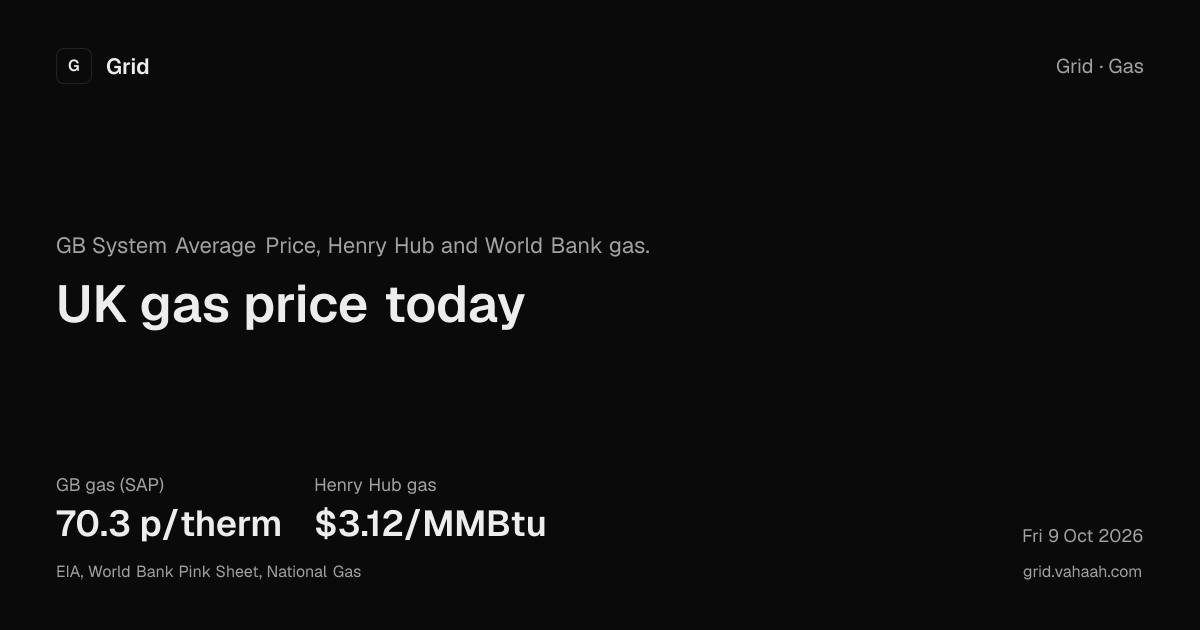
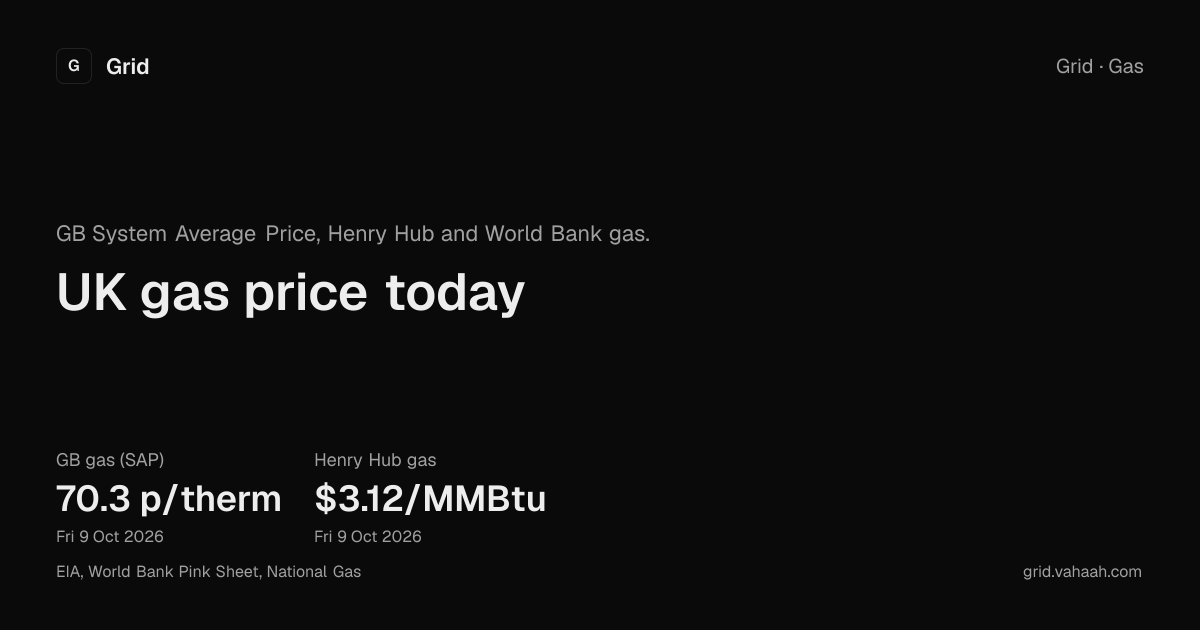
Address the OG review: attribution, hourly cache, exports, and gas dates.
Attribute overview, generation, and Today with the full grid sources. Cache Today and Gas for an hour. Drop net-export groups before share totals, and put each gas benchmark's own date on its metric.

Changed region(s): [[0.0308, 0.3619, 0.555, 0.5429], [0.0308, 0.7238, 0.4625, 0.8746], [0.8633, 0.8444, 0.9558, 0.8746]]

diff --git a/src/lib/og/model.test.ts b/src/lib/og/model.test.ts
@@ -1,4 +1,6 @@
 import { describe, expect, it } from "vitest";
+import { GB_GAS_SAP_COMMODITY } from "@/lib/gb-gas-sap";
+import { OG_CACHE_CONTROL, OG_HOURLY_CACHE_CONTROL } from "@/lib/site";
 import {
   OG_CARBON_SOURCE,
   OG_COMMODITY_SOURCE,
@@ -12,6 +14,7 @@ import {
   formatOgDayStamp,
   gridEyebrow,
   normalizeOgShares,
+  ogCacheControl,
   ogFuelKey,
   ogSampleFilename,
   parseOgVariant,
@@ -66,6 +69,7 @@ describe("og model", () => {
     );
 
     const overview = buildOgCard({ kind: "focus", focus: "overview" }, live);
+    expect(overview.source).toBe(OG_GRID_SOURCES);
     expect(overview.title).toContain("Wind is the largest source");
     expect(overview.title).not.toContain("Biomass is the largest source");
     expect(overview.title).toContain("importing 6.1 GW");
@@ -79,6 +83,7 @@ describe("og model", () => {
     );
 
     const generation = buildOgCard({ kind: "focus", focus: "generation" }, live);
+    expect(generation.source).toBe(OG_GRID_SOURCES);
     expect(generation.title).toContain("Wind is the largest source");
     expect(generation.mix[0]?.fuel).toBe("wind");
 
@@ -144,6 +149,8 @@ describe("og model", () => {
     const today = buildOgCard({ kind: "page", page: "today" }, snapshot);
     const methodology = buildOgCard({ kind: "page", page: "methodology" }, snapshot);
     const sources = buildOgCard({ kind: "page", page: "data-sources" }, snapshot);
+    expect(today.source).toBe(OG_GRID_SOURCES);
+    expect(today.source).toContain("Carbon Intensity");
     expect(today.source).toContain("Sheffield Solar PV Live");
     expect(methodology.source).toContain("Sheffield Solar PV Live");
     expect(sources.source).toContain("Sheffield Solar PV Live");
@@ -162,7 +169,65 @@ describe("og model", () => {
     expect(gas.metrics.some((metric) => metric.value.includes("p/therm"))).toBe(true);
     expect(gas.metrics.some((metric) => metric.value.endsWith("/MMBtu"))).toBe(true);
     expect(gas.source).toBe(OG_COMMODITY_SOURCE);
-    expect(gas.stamp).toBe("Fri 9 Oct 2026");
+    expect(gas.stamp).toBeNull();
+    expect(gas.metrics.find((metric) => metric.label.includes("SAP"))?.hint).toBe("Fri 9 Oct 2026");
+    expect(gas.metrics.find((metric) => metric.label.includes("Henry"))?.hint).toBe("Fri 9 Oct 2026");
+  });
+
+  it("keeps a separate date on each gas benchmark", () => {
+    const gas = buildOgCard(
+      { kind: "page", page: "gas" },
+      {
+        ...snapshot,
+        prices: [
+          {
+            date: "2026-10-10",
+            commodity: GB_GAS_SAP_COMMODITY,
+            price: 2.4,
+            currency: "GBP",
+            unit: "p/kWh",
+          },
+          {
+            date: "2026-10-08",
+            commodity: "henry_hub_gas",
+            price: 3.12,
+            currency: "USD",
+            unit: "$/MMBTU",
+          },
+        ],
+      }
+    );
+    expect(gas.stamp).toBeNull();
+    expect(gas.metrics.find((metric) => metric.label.includes("SAP"))?.hint).toBe("Sat 10 Oct 2026");
+    expect(gas.metrics.find((metric) => metric.label.includes("Henry"))?.hint).toBe("Thu 8 Oct 2026");
+  });
+
+  it("drops net exports before share percentages and keeps a net import", () => {
+    const exporting = normalizeOgShares([
+      { fuel: "wind", mw: 10_000, sharePct: 50 },
+      { fuel: "gas", mw: 5_000, sharePct: 25 },
+      { fuel: "INTFR", mw: -2_000, sharePct: -10 },
+    ]);
+    expect(exporting.find((share) => share.fuel === "imports")).toBeUndefined();
+    expect(exporting.reduce((sum, share) => sum + share.sharePct, 0)).toBeCloseTo(100, 5);
+    expect(exporting.find((share) => share.fuel === "wind")?.sharePct).toBeCloseTo((10_000 / 15_000) * 100, 5);
+
+    const importing = normalizeOgShares([
+      { fuel: "wind", mw: 10_000, sharePct: 40 },
+      { fuel: "INTFR", mw: 4_000, sharePct: 16 },
+      { fuel: "INTNED", mw: -1_000, sharePct: -4 },
+    ]);
+    expect(importing.find((share) => share.fuel === "imports")?.mw).toBe(3_000);
+    expect(importing.reduce((sum, share) => sum + share.sharePct, 0)).toBeCloseTo(100, 5);
+  });
+
+  it("caches today and gas for an hour and other images for a day", () => {
+    expect(ogCacheControl({ kind: "page", page: "today" })).toBe(OG_HOURLY_CACHE_CONTROL);
+    expect(ogCacheControl({ kind: "page", page: "gas" })).toBe(OG_HOURLY_CACHE_CONTROL);
+    expect(ogCacheControl({ kind: "page", page: "privacy" })).toBe(OG_CACHE_CONTROL);
+    expect(ogCacheControl({ kind: "focus", focus: "overview" })).toBe(OG_CACHE_CONTROL);
+    expect(OG_HOURLY_CACHE_CONTROL).toContain("s-maxage=3600");
+    expect(OG_CACHE_CONTROL).toContain("s-maxage=86400");
   });
 
   it("keeps a consistent Grid eyebrow separator and site footer", () => {

diff --git a/src/lib/og/model.ts b/src/lib/og/model.ts
@@ -13,7 +13,7 @@ import { GB_GAS_SAP_COMMODITY, formatSapPencePerTherm } from "@/lib/gb-gas-sap";
 import { formatLondonCiteDate, parseUtcDateTime } from "@/lib/london-time";
 import { FOCUS_PAGE_COPY, isDashboardFocus } from "@/lib/page-metadata";
 import type { OgCacheSnapshot } from "@/lib/og/peek";
-import { SITE_ORIGIN } from "@/lib/site";
+import { OG_CACHE_CONTROL, OG_HOURLY_CACHE_CONTROL, SITE_ORIGIN } from "@/lib/site";
 
 export const OG_PAGE_IDS = [
   "records",
@@ -63,7 +63,7 @@ export const OG_EYEBROW_SEPARATOR = " · ";
 export const OG_FOOTER = new URL(SITE_ORIGIN).host;
 export const OG_GRID_SOURCES = "Elexon, NESO, Carbon Intensity, Sheffield Solar PV Live";
 export const OG_CONTEXT_SOURCES = "EIA, World Bank, National Gas";
-export const OG_TODAY_SOURCES = "Elexon, NESO, Sheffield Solar PV Live";
+export const OG_TODAY_SOURCES = OG_GRID_SOURCES;
 export const OG_PRICE_SOURCE = "Elexon BMRS";
 export const OG_CARBON_SOURCE = "NESO Carbon Intensity API";
 export const OG_COMMODITY_SOURCE = "EIA, World Bank Pink Sheet, National Gas";
@@ -281,7 +281,7 @@ function overviewCard(facts: LatestFacts | null, focus: "overview" | "generation
     ],
     mix: mixSlices(shares),
     stamp: facts.stamp,
-    source: null,
+    source: OG_GRID_SOURCES,
     cached: true,
   };
 }
@@ -479,14 +479,16 @@ function gasCard(snapshot: OgCacheSnapshot): OgCard {
       {
         label: COMMODITY_CARD_LABELS.gb_gas_sap ?? "GB gas",
         value: sap ? formatCommodityOgValue(sap) : "—",
+        hint: formatOgDayStamp(sap?.date) ?? undefined,
       },
       {
         label: COMMODITY_CARD_LABELS.henry_hub_gas ?? "Henry Hub",
         value: hub ? formatCommodityOgValue(hub) : "—",
+        hint: formatOgDayStamp(hub?.date) ?? undefined,
       },
     ],
     mix: [],
-    stamp: formatOgDayStamp(sap?.date ?? hub?.date ?? null),
+    stamp: null,
     source: OG_COMMODITY_SOURCE,
     cached: true,
   };
@@ -534,24 +536,50 @@ export function normalizeOgShares(shares: SupplyShare[]): SupplyShare[] {
     });
   }
 
-  const totalMw = [...grouped.values()].reduce((sum, row) => sum + row.mw, 0);
-  const totalPct = [...grouped.values()].reduce((sum, row) => sum + row.sharePct, 0);
-  const combined: SupplyShare[] = [];
-
-  for (const [fuel, row] of grouped) {
-    if (row.mw < 0 || (row.mw === 0 && row.sharePct <= 0)) {
-      continue;
-    }
-    combined.push({
-      fuel,
-      mw: row.mw,
-      sharePct:
-        totalMw > 0 ? (row.mw / totalMw) * 100 : totalPct > 0 ? (row.sharePct / totalPct) * 100 : 0,
-    });
-  }
+  const positive = [...grouped.entries()].filter(([, row]) => row.mw > 0 || (row.mw === 0 && row.sharePct > 0));
+  const totalMw = positive.reduce((sum, [, row]) => sum + row.mw, 0);
+  const totalPct = positive.reduce((sum, [, row]) => sum + row.sharePct, 0);
+  const combined: SupplyShare[] = positive.map(([fuel, row]) => ({
+    fuel,
+    mw: row.mw,
+    sharePct: totalMw > 0 ? (row.mw / totalMw) * 100 : totalPct > 0 ? (row.sharePct / totalPct) * 100 : 0,
+  }));
 
   combined.sort((left, right) => right.mw - left.mw || right.sharePct - left.sharePct);
   return combined;
+}
+
+export function ogCacheControl(variant: OgVariant): string {
+  switch (variant.kind) {
+    case "page":
+      return pageCacheControl(variant.page);
+    case "focus":
+      return OG_CACHE_CONTROL;
+    default: {
+      const exhaustive: never = variant;
+      return exhaustive;
+    }
+  }
+}
+
+function pageCacheControl(page: OgPageId): string {
+  switch (page) {
+    case "today":
+    case "gas":
+      return OG_HOURLY_CACHE_CONTROL;
+    case "records":
+    case "privacy":
+    case "terms":
+    case "data-sources":
+    case "price-cap":
+    case "methodology":
+    case "api":
+      return OG_CACHE_CONTROL;
+    default: {
+      const exhaustive: never = page;
+      return exhaustive;
+    }
+  }
 }
 
 function mixSlices(shares: SupplyShare[]): OgMixSlice[] {

diff --git a/src/lib/og/response.tsx b/src/lib/og/response.tsx
@@ -1,9 +1,9 @@
 import { ImageResponse } from "next/og";
 import { OgImage } from "@/lib/og/image";
 import { loadOgFonts } from "@/lib/og/fonts";
-import { buildOgCard, type OgVariant } from "@/lib/og/model";
+import { buildOgCard, ogCacheControl, type OgVariant } from "@/lib/og/model";
 import { peekOgCacheSnapshot, type OgCacheSnapshot } from "@/lib/og/peek";
-import { OG_CACHE_CONTROL, OG_IMAGE_HEIGHT, OG_IMAGE_WIDTH } from "@/lib/site";
+import { OG_IMAGE_HEIGHT, OG_IMAGE_WIDTH } from "@/lib/site";
 
 export async function renderOgImageResponse(
   variant: OgVariant,
@@ -11,15 +11,16 @@ export async function renderOgImageResponse(
 ): Promise<ImageResponse> {
   const card = buildOgCard(variant, snapshot ?? (await peekOgCacheSnapshot()));
   const fonts = await loadOgFonts();
+  const cacheControl = ogCacheControl(variant);
 
   return new ImageResponse(<OgImage card={card} />, {
     width: OG_IMAGE_WIDTH,
     height: OG_IMAGE_HEIGHT,
     fonts,
     headers: {
-      "Cache-Control": OG_CACHE_CONTROL,
-      "CDN-Cache-Control": OG_CACHE_CONTROL,
-      "Vercel-CDN-Cache-Control": OG_CACHE_CONTROL,
+      "Cache-Control": cacheControl,
+      "CDN-Cache-Control": cacheControl,
+      "Vercel-CDN-Cache-Control": cacheControl,
     },
   });
 }

diff --git a/src/lib/og/peek.test.ts b/src/lib/og/peek.test.ts
@@ -22,6 +22,7 @@ describe("og cache peek", () => {
     expect(peek).not.toContain("loadDashboardPayloadUncached");
     expect(peek).not.toContain("fetchPipeRows");
     expect(response).toContain("peekOgCacheSnapshot");
+    expect(response).toContain("ogCacheControl(variant)");
     expect(response).not.toContain("queryPipe");
     expect(route).toContain("renderOgImageResponse");
     expect(route).not.toContain("queryPipe");

diff --git a/src/lib/site.ts b/src/lib/site.ts
@@ -48,6 +48,7 @@ export const SITE_DESCRIPTION = HOME_DESCRIPTION;
 export const OG_IMAGE_WIDTH = 1200;
 export const OG_IMAGE_HEIGHT = 630;
 export const OG_CACHE_CONTROL = "public, s-maxage=86400, stale-while-revalidate=604800";
+export const OG_HOURLY_CACHE_CONTROL = "public, s-maxage=3600, stale-while-revalidate=86400";
 export const OG_REVALIDATE_SECONDS = 86_400;
 
 export const SITE_OG_IMAGE = {
